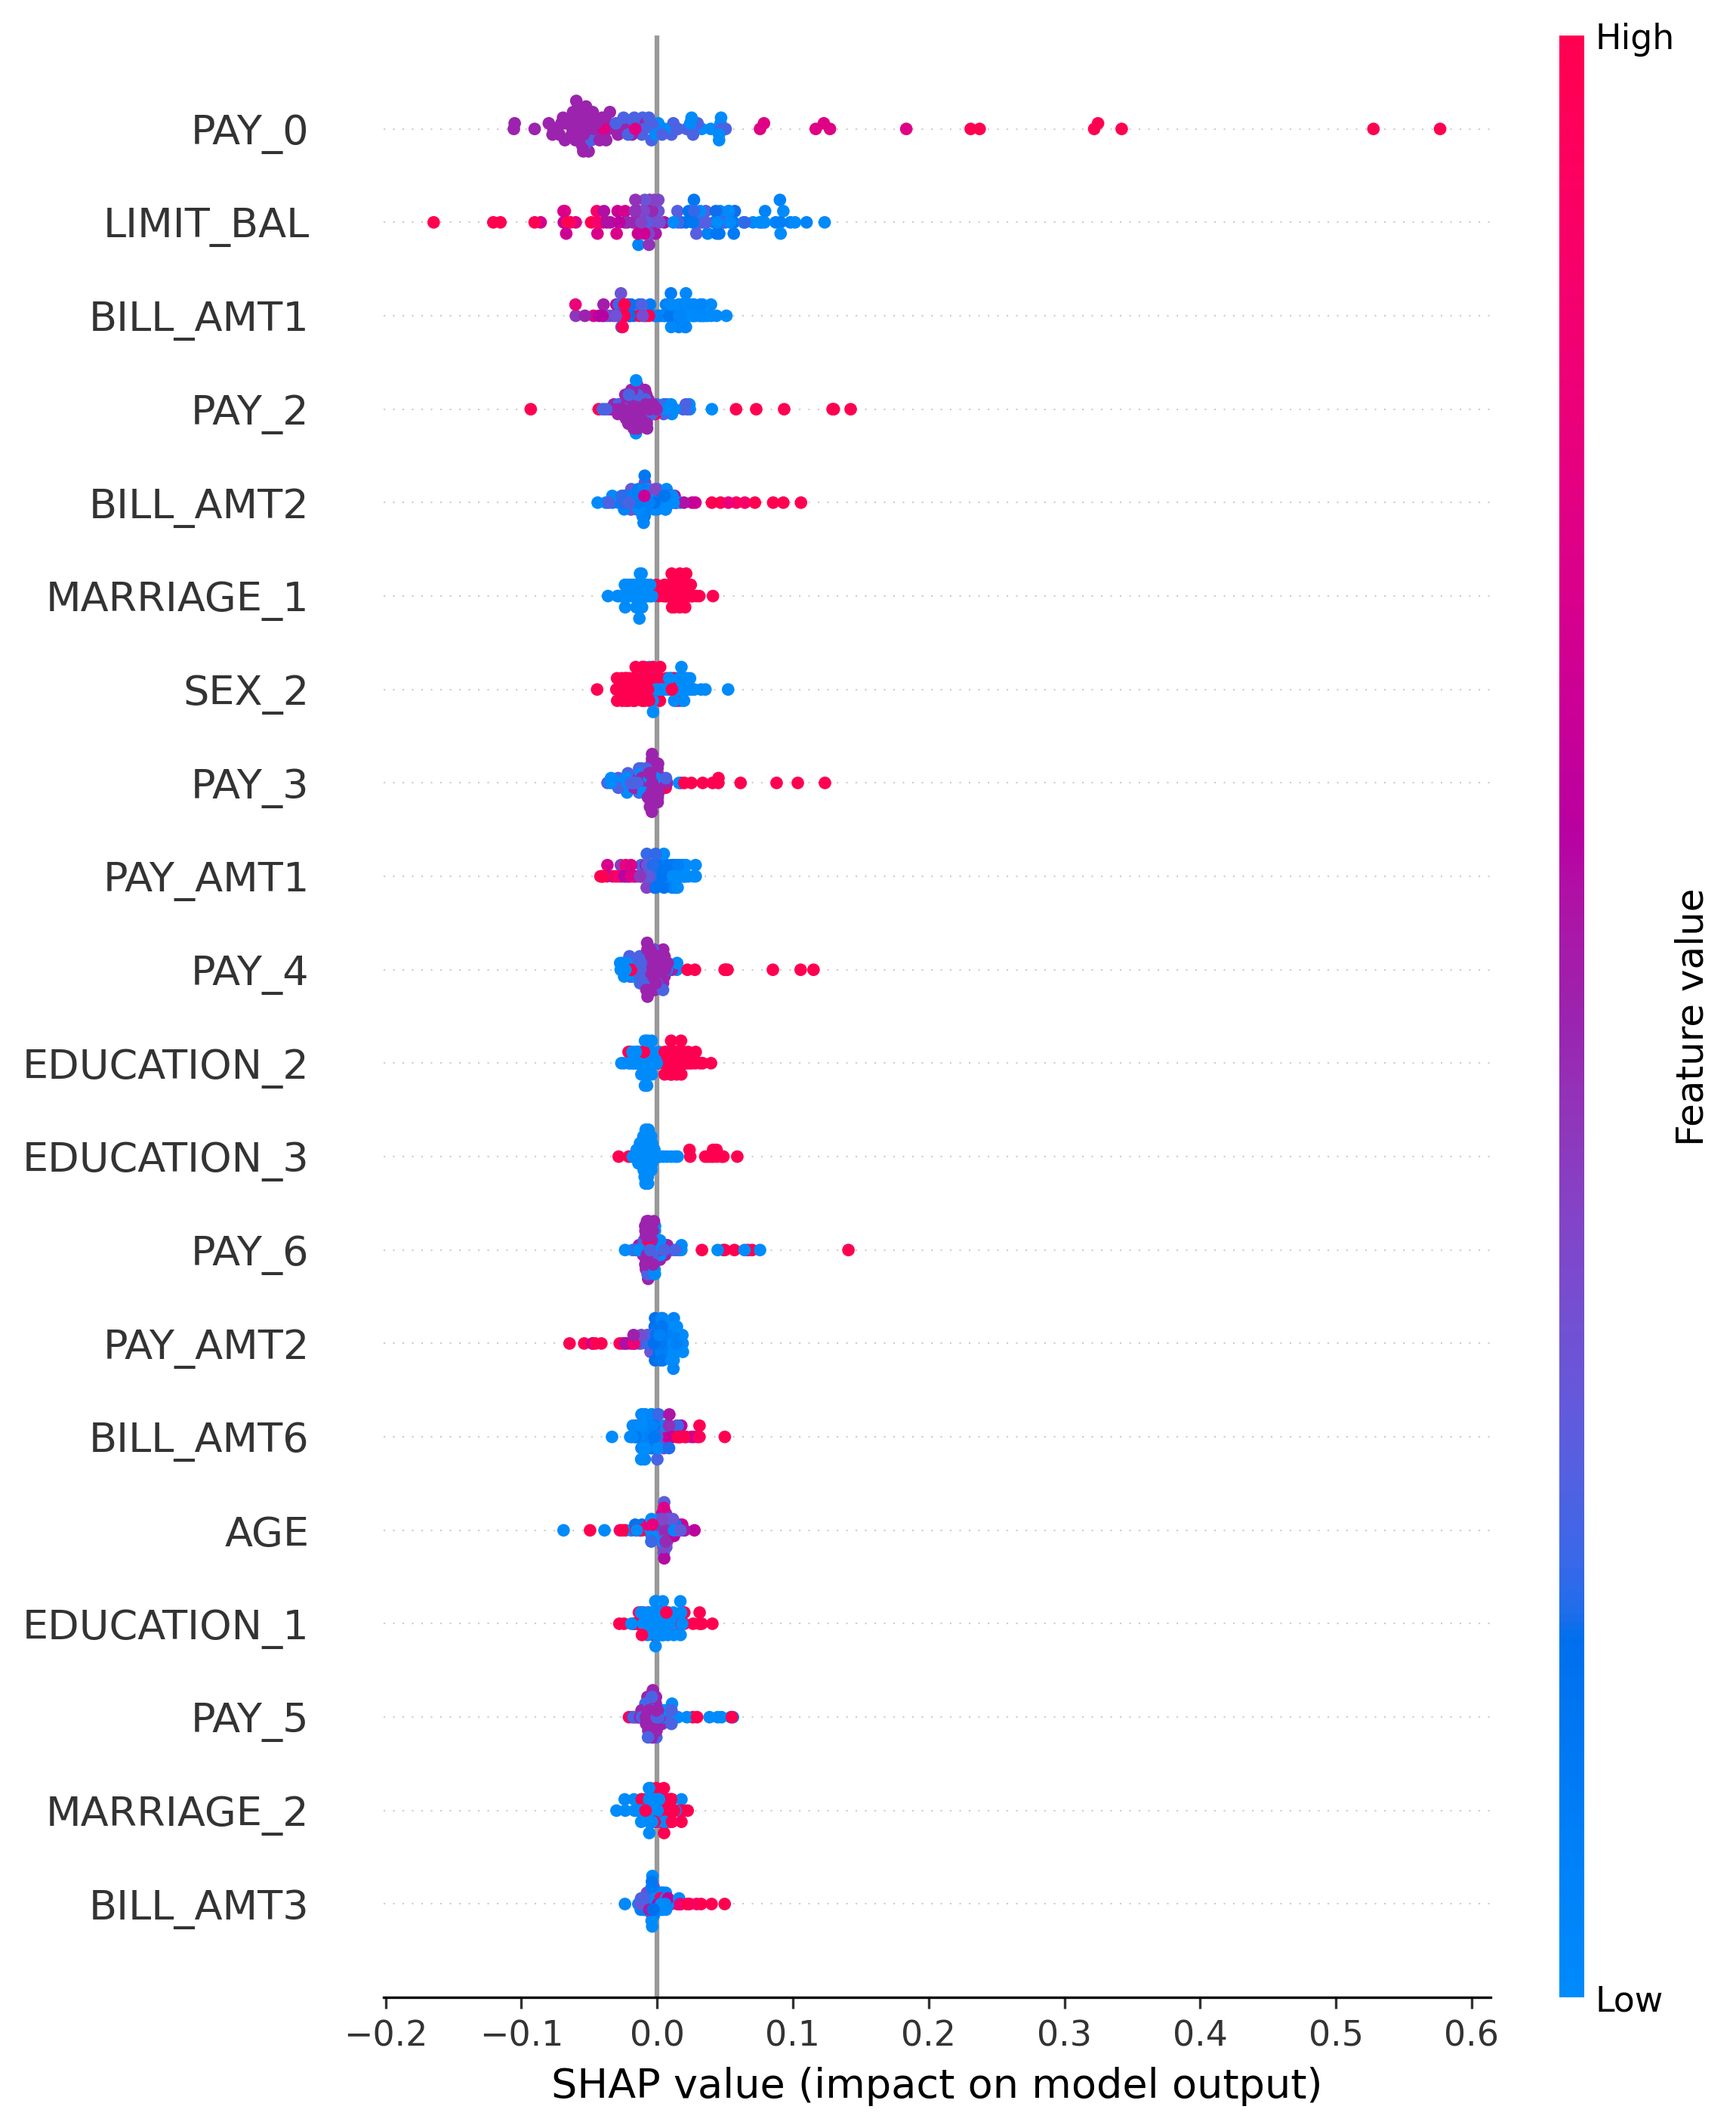
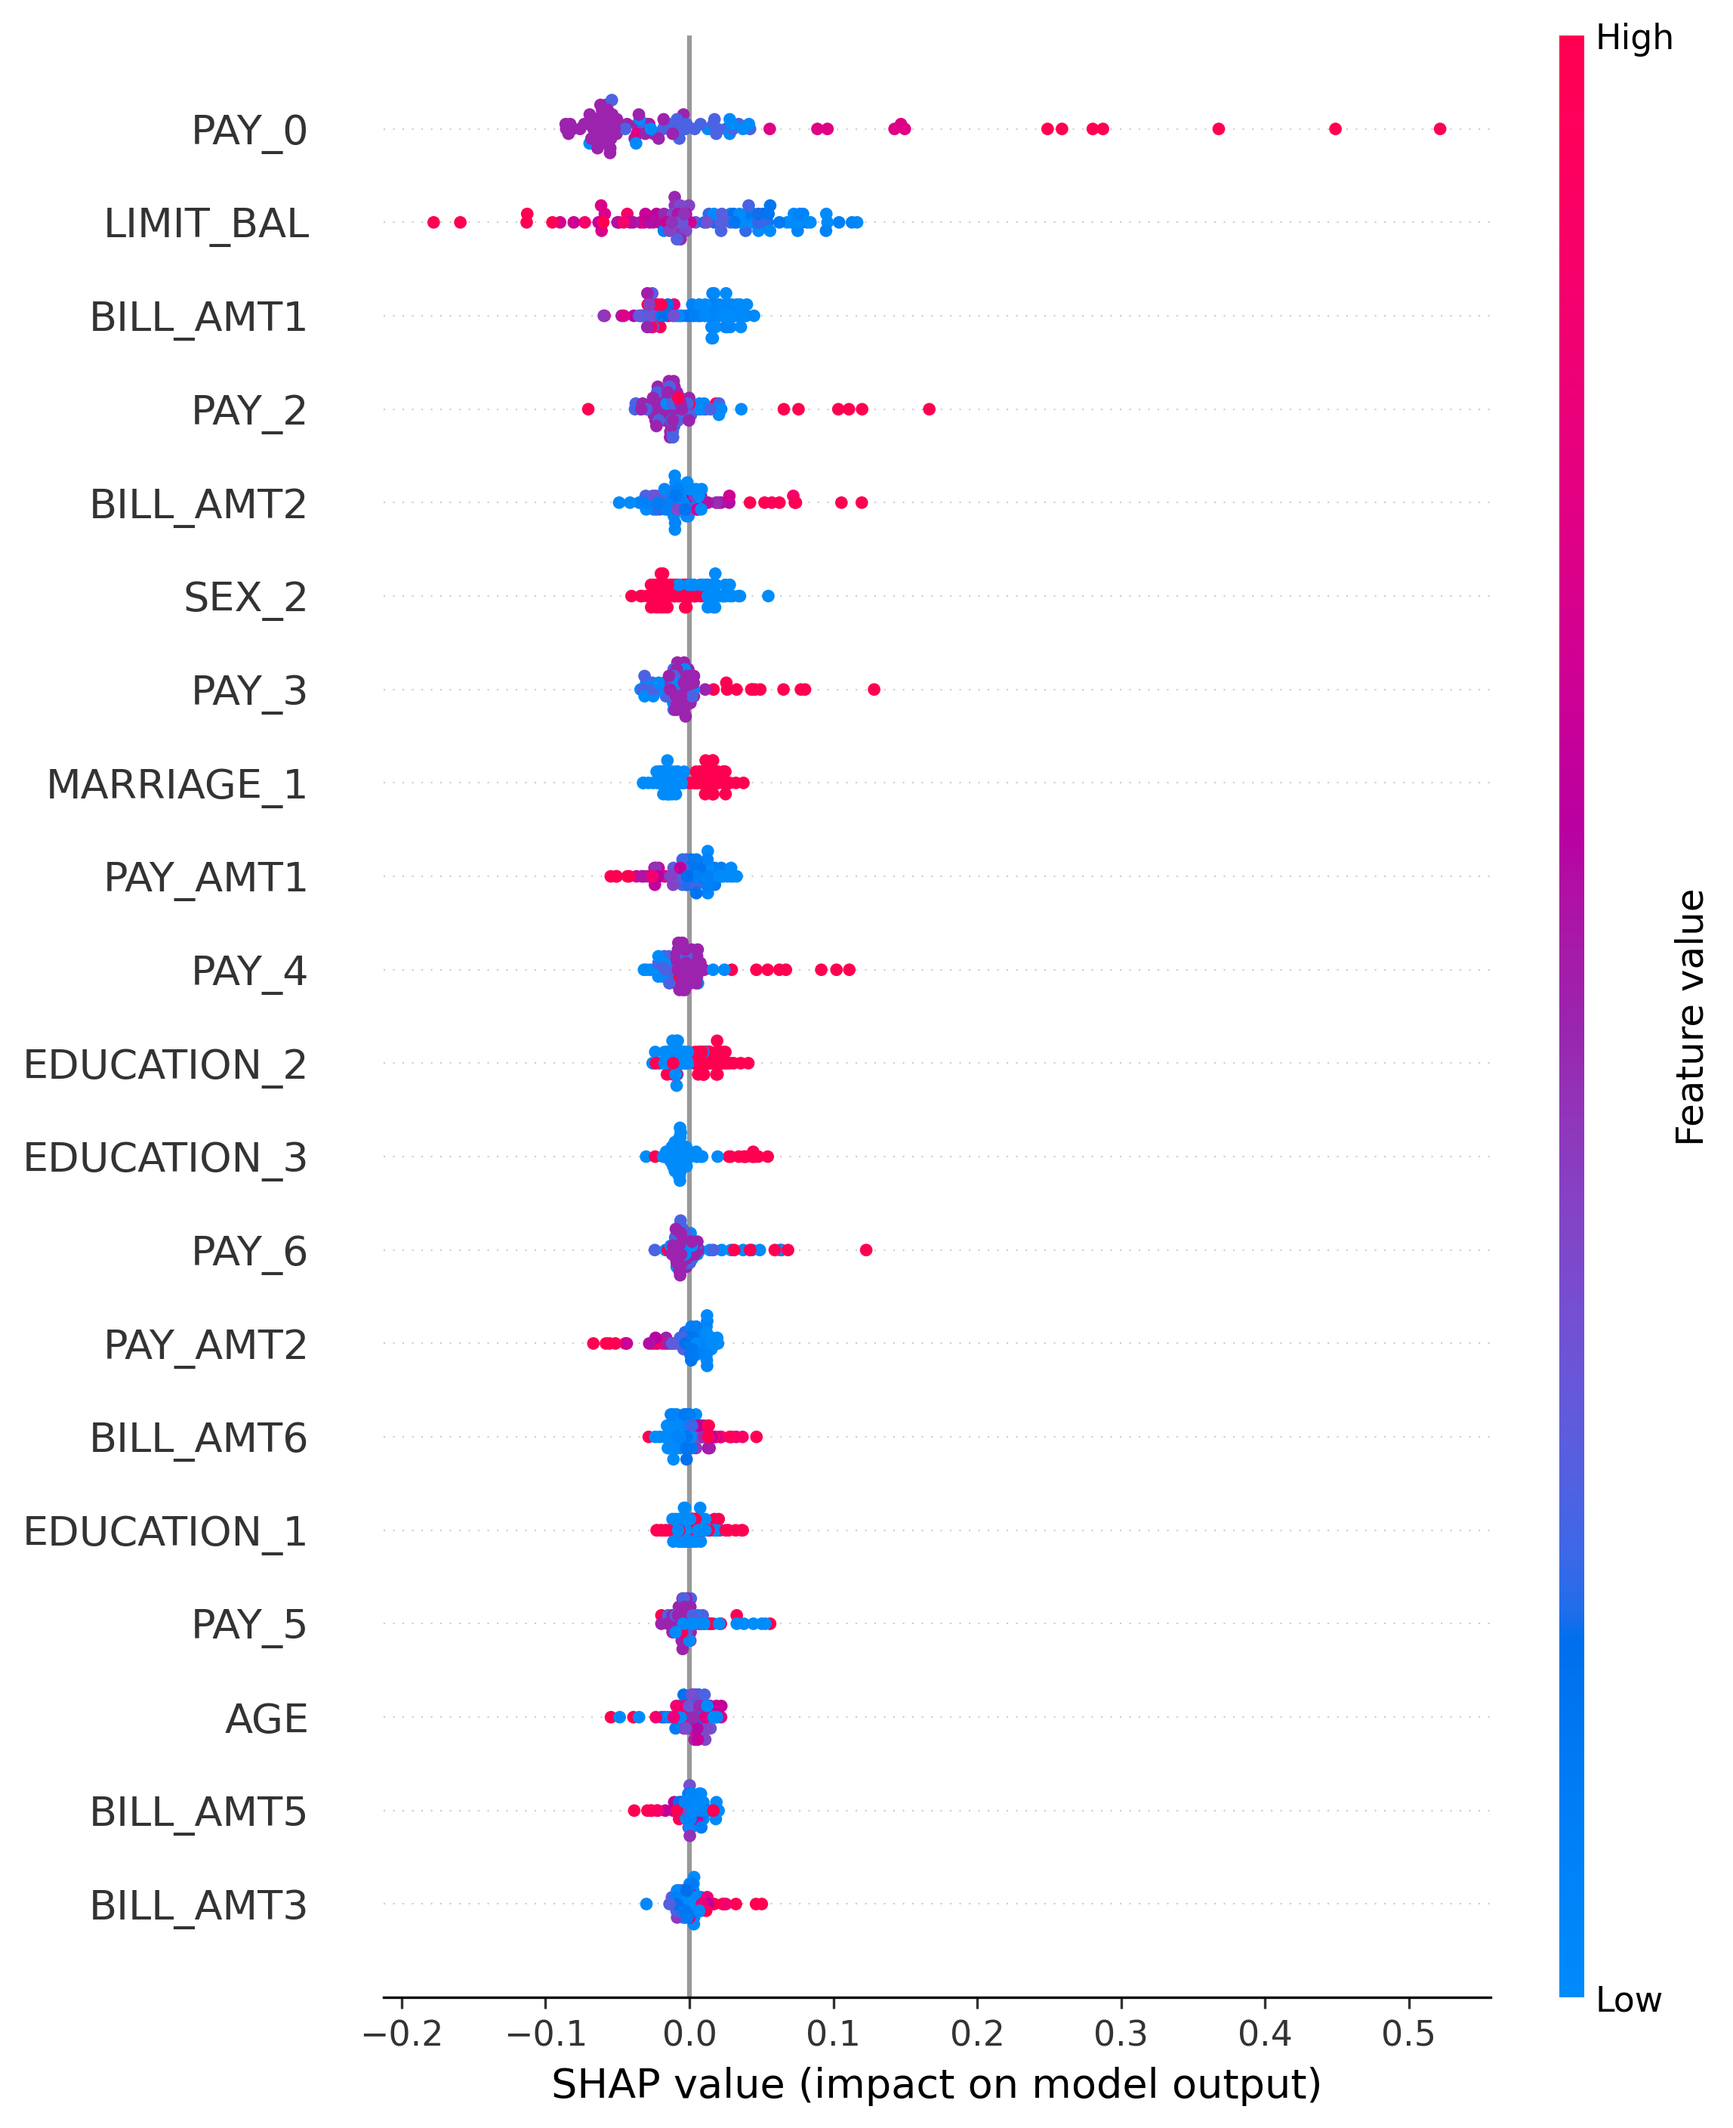
Added feature for comparing fraud models

diff --git a/credit_fraud.py b/credit_fraud.py
@@ -27,7 +27,7 @@ st.title("Credit Card Fraud Detection Model comparison and Credit Default Predic
 st.sidebar.header("Navigation")
 section = st.sidebar.selectbox(
     "Choose a section:",
-    ("Pre-Processing", "Model Results", "Credit Default Prediction"),
+    ("Pre-Processing", "Model Results","Fraud Prediction", "Credit Default Prediction"),
     index=0
 )
 
@@ -102,9 +102,13 @@ if section == "Pre-Processing":
         )
 
         # Scaling Time and Amount
-        rob_scaler = RobustScaler()
-        df['scaled_amount'] = rob_scaler.fit_transform(df['Amount'].values.reshape(-1, 1))
-        df['scaled_time'] = rob_scaler.fit_transform(df['Time'].values.reshape(-1, 1))
+        rob_scaler_amount = RobustScaler()
+        df['scaled_amount'] = rob_scaler_amount.fit_transform(df['Amount'].values.reshape(-1, 1))
+        joblib.dump(rob_scaler_amount, 'robust_scaler_amount.pkl')  # Save scaler
+
+        rob_scaler_time = RobustScaler()
+        df['scaled_time'] = rob_scaler_time.fit_transform(df['Time'].values.reshape(-1, 1))
+        joblib.dump(rob_scaler_time, 'robust_scaler_time.pkl')
 
         # Drop original columns
         df.drop(['Time', 'Amount'], axis=1, inplace=True)
@@ -319,6 +323,79 @@ elif section == "Model Results":
             "This application provides a comparative analysis of different machine learning models for credit card fraud detection. "
             "Use the sidebar to switch between models and view their results in an easy-to-understand format."
         )
+
+elif section == "Fraud Prediction":
+    st.header("Credit Card Fraud Prediction")
+
+    # Load scalers
+    try:
+        rob_scaler_amount = joblib.load('robust_scaler_amount.pkl')
+        rob_scaler_time = joblib.load('robust_scaler_time.pkl')
+    except FileNotFoundError:
+        st.error("Scalers not found. Please preprocess the data first.")
+        st.stop()
+
+    # Input form
+    with st.form("fraud_input_form"):
+        st.subheader("Transaction Details")
+        time_input = st.number_input("Time (seconds since first transaction)")
+        amount_input = st.number_input("Amount (USD)")
+
+        # Collect V1-V28 inputs
+        st.subheader("PCA Components (V1-V28)")
+        cols = st.columns(4)
+        v_inputs = []
+        for i in range(28):
+            with cols[i % 4]:
+                v_inputs.append(st.number_input(f"V{i+1}", key=f"v_{i+1}"))
+
+        submitted = st.form_submit_button("Predict")
+
+    if submitted:
+        # Scale inputs
+        scaled_time = rob_scaler_time.transform([[time_input]])[0][0]
+        scaled_amount = rob_scaler_amount.transform([[amount_input]])[0][0]
+
+        # Create feature array (order: V1-V28, scaled_amount, scaled_time)
+        features = v_inputs + [scaled_amount, scaled_time]
+        features_array = np.array(features).reshape(1, -1)
+
+        # Train models (if not cached)
+        if 'trained_models' not in st.session_state:
+            with st.spinner("Training models..."):
+                knn = KNeighborsClassifier(n_neighbors=5)
+                knn.fit(st.session_state['X_train'], st.session_state['y_train'])
+
+                svm = SVC(kernel='linear', probability=True, random_state=42)
+                svm.fit(st.session_state['X_train'], st.session_state['y_train'])
+
+                log_reg = LogisticRegression(max_iter=1000, random_state=42)
+                log_reg.fit(st.session_state['X_train'], st.session_state['y_train'])
+
+                nb = GaussianNB()
+                nb.fit(st.session_state['X_train'], st.session_state['y_train'])
+
+                st.session_state['trained_models'] = {
+                    'KNN': knn,
+                    'SVM': svm,
+                    'Logistic Regression': log_reg,
+                    'Naive Bayes': nb
+                }
+
+        # Predict
+        results = {}
+        for model_name, model in st.session_state['trained_models'].items():
+            pred = model.predict(features_array)[0]
+            proba = model.predict_proba(features_array)[0][1]
+            results[model_name] = {'prediction': pred, 'probability': proba}
+
+        # Display results
+        st.subheader("Prediction Results")
+        for model, data in results.items():
+            st.write(f"**{model}**")
+            st.write(f"Prediction: {'Fraud' if data['prediction'] == 1 else 'Non-Fraud'}")
+            st.write(f"Fraud Probability: {data['probability']:.2%}")
+            st.markdown("---")
 
 elif section == "Credit Default Prediction":
     def encode_image(image_path):
